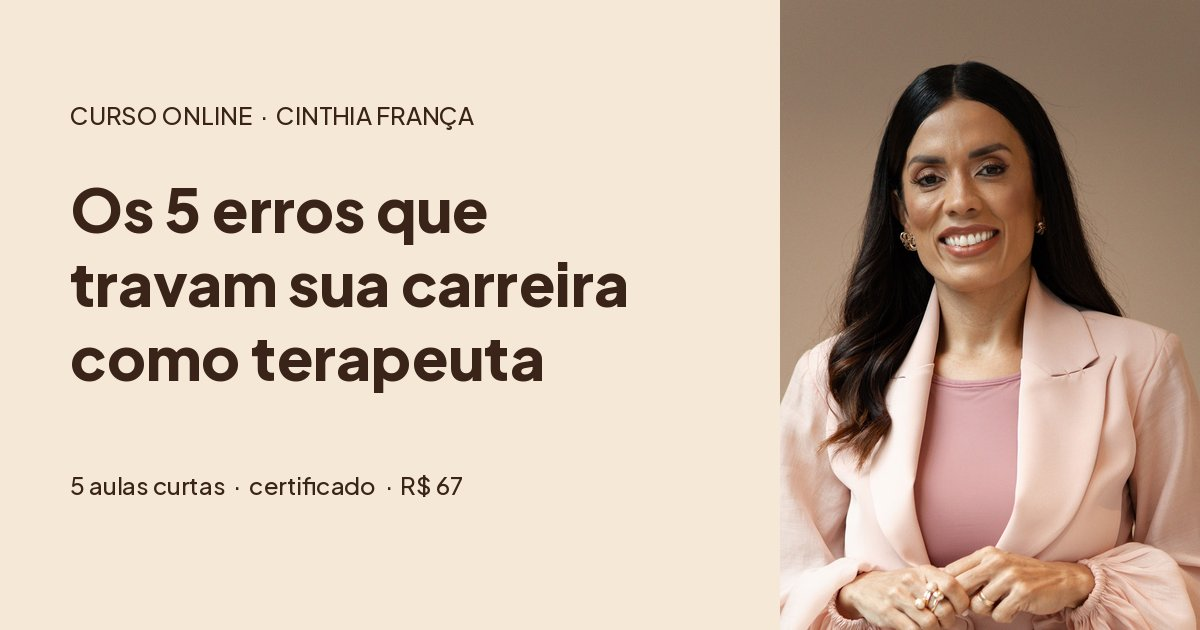
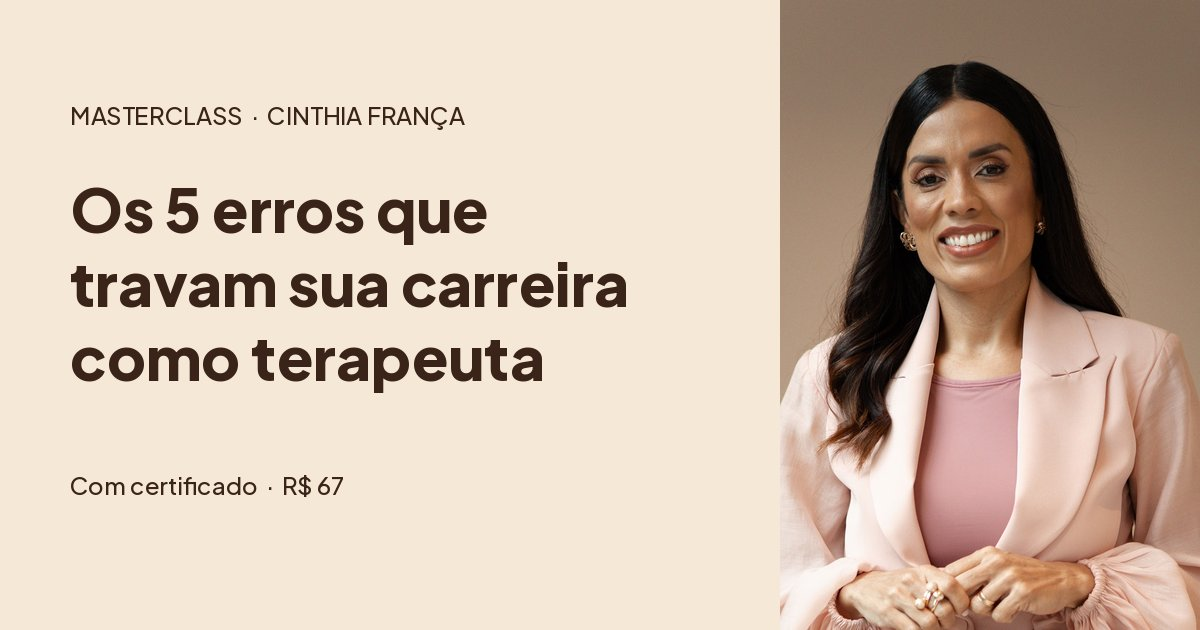
Reposiciona como masterclass: promessa de clareza, não de transformação
Claude-Session: https://claude.ai/code/session_011kGtmtPKbxxU8P9mcd28SW

Changed region(s): [[0.0617, 0.1508, 0.4008, 0.2111], [0.0617, 0.754, 0.4008, 0.7841]]

diff --git a/index.html b/index.html
@@ -3,11 +3,11 @@
 <head>
 <meta charset="utf-8">
 <meta name="viewport" content="width=device-width, initial-scale=1">
-<title>Os 5 Erros que Travam sua Carreira como Terapeuta | Cinthia França</title>
-<meta name="description" content="Saia da terapeuta competente que ninguém enxerga para a profissional reconhecida, valorizada e com uma carreira que cresce. Curso com Cinthia França, R$ 67.">
+<title>Masterclass: Os 5 Erros que Travam sua Carreira como Terapeuta | Cinthia França</title>
+<meta name="description" content="Masterclass com Cinthia França: entenda os erros que travam a carreira de terapeutas competentes e qual é o seu próximo passo. Com certificado.">
 <meta property="og:type" content="website">
-<meta property="og:title" content="Os 5 Erros que Travam sua Carreira como Terapeuta">
-<meta property="og:description" content="Curso com Cinthia França. 5 aulas e certificado. R$ 67.">
+<meta property="og:title" content="Masterclass: Os 5 Erros que Travam sua Carreira como Terapeuta">
+<meta property="og:description" content="Masterclass com Cinthia França. Com certificado. R$ 67.">
 <meta property="og:image" content="https://gbrielvascn.github.io/5-erros-terapeuta/img/og.jpg">
 <meta name="twitter:card" content="summary_large_image">
 <link rel="preload" href="fonts/dm-sans-latin.woff2" as="font" type="font/woff2" crossorigin>
@@ -230,13 +230,13 @@
   <div class="wrap">
     <div class="hero-copy">
       <img class="logo" src="img/logo.webp" alt="Cinthia França" width="300" height="194">
-      <span class="tag">Curso online para terapeutas</span>
-      <h1>Você já é <b>uma boa terapeuta.</b> <span class="acc">Agora construa a carreira que você merece.</span></h1>
-      <p class="sub">Em 5 aulas, eu te mostro <b>os erros que travam a carreira de terapeutas competentes</b> e o caminho para ser reconhecida e crescer sem viver exausta.</p>
+      <span class="tag">Masterclass para terapeutas</span>
+      <h1>Você já é <b>uma boa terapeuta.</b> <span class="acc">Descubra o que está travando a sua carreira.</span></h1>
+      <p class="sub">Numa masterclass curta, direto ao ponto, eu te mostro <b>os 5 erros que travam a carreira de terapeutas competentes</b> e qual é o próximo passo para sair deles.</p>
       <ul class="outs">
-        <li><svg viewBox="0 0 24 24" fill="none" stroke="currentColor" stroke-width="3" stroke-linecap="round" stroke-linejoin="round"><path d="M5 12l5 5 9-10"/></svg>Seja reconhecida pelo que você faz de melhor</li>
-        <li><svg viewBox="0 0 24 24" fill="none" stroke="currentColor" stroke-width="3" stroke-linecap="round" stroke-linejoin="round"><path d="M5 12l5 5 9-10"/></svg>Cresça sem precisar viver no limite</li>
-        <li><svg viewBox="0 0 24 24" fill="none" stroke="currentColor" stroke-width="3" stroke-linecap="round" stroke-linejoin="round"><path d="M5 12l5 5 9-10"/></svg>Descubra o próximo passo da sua carreira</li>
+        <li><svg viewBox="0 0 24 24" fill="none" stroke="currentColor" stroke-width="3" stroke-linecap="round" stroke-linejoin="round"><path d="M5 12l5 5 9-10"/></svg>Entenda por que seu trabalho não é reconhecido como deveria</li>
+        <li><svg viewBox="0 0 24 24" fill="none" stroke="currentColor" stroke-width="3" stroke-linecap="round" stroke-linejoin="round"><path d="M5 12l5 5 9-10"/></svg>Enxergue os erros que você comete sem perceber</li>
+        <li><svg viewBox="0 0 24 24" fill="none" stroke="currentColor" stroke-width="3" stroke-linecap="round" stroke-linejoin="round"><path d="M5 12l5 5 9-10"/></svg>Saiba qual é o próximo passo para o seu momento</li>
       </ul>
       <div class="cta-row">
         <a class="btn js-cta" href="https://pay.kirvano.com/73191838-db71-4db0-a20a-98476601e4a1">Quero assistir
@@ -253,8 +253,8 @@
   <div class="wrap">
     <div class="center">
       <span class="eyebrow" style="color:var(--accent)">A transformação</span>
-      <h2 class="h2" style="margin-top:12px">De <b>boa profissional</b> para <b>carreira de referência</b></h2>
-      <p class="tr-intro">Ser uma excelente profissional não significa construir uma excelente carreira. Este curso é a ponte entre as duas coisas.</p>
+      <h2 class="h2" style="margin-top:12px">Da carreira travada para <b>um caminho claro</b></h2>
+      <p class="tr-intro">Ser uma excelente profissional não significa construir uma excelente carreira. Nesta masterclass, eu mostro o que está no meio do caminho.</p>
     </div>
     <div class="ba">
       <div class="col before">
@@ -269,12 +269,12 @@
       </div>
       <div class="arrow"><span><svg viewBox="0 0 24 24" fill="none" stroke="currentColor" stroke-width="2.6" stroke-linecap="round" stroke-linejoin="round"><path d="M5 12h14M13 6l6 6-6 6"/></svg></span></div>
       <div class="col after">
-        <h3>Depois do curso</h3>
+        <h3>Depois da masterclass</h3>
         <ul>
           <li><svg viewBox="0 0 24 24" fill="none" stroke="currentColor" stroke-width="2.8" stroke-linecap="round" stroke-linejoin="round"><path d="M5 12l5 5 9-10"/></svg>Você entende o que está travando a sua carreira</li>
-          <li><svg viewBox="0 0 24 24" fill="none" stroke="currentColor" stroke-width="2.8" stroke-linecap="round" stroke-linejoin="round"><path d="M5 12l5 5 9-10"/></svg>Você sabe como fazer seu trabalho ser reconhecido</li>
-          <li><svg viewBox="0 0 24 24" fill="none" stroke="currentColor" stroke-width="2.8" stroke-linecap="round" stroke-linejoin="round"><path d="M5 12l5 5 9-10"/></svg>Você passa a criar oportunidades em vez de esperar por elas</li>
-          <li><svg viewBox="0 0 24 24" fill="none" stroke="currentColor" stroke-width="2.8" stroke-linecap="round" stroke-linejoin="round"><path d="M5 12l5 5 9-10"/></svg>Você constrói uma carreira que se sustenta, sem viver no limite</li>
+          <li><svg viewBox="0 0 24 24" fill="none" stroke="currentColor" stroke-width="2.8" stroke-linecap="round" stroke-linejoin="round"><path d="M5 12l5 5 9-10"/></svg>Você enxerga os erros que estava cometendo sem perceber</li>
+          <li><svg viewBox="0 0 24 24" fill="none" stroke="currentColor" stroke-width="2.8" stroke-linecap="round" stroke-linejoin="round"><path d="M5 12l5 5 9-10"/></svg>Você sabe por que seu trabalho não está sendo reconhecido</li>
+          <li><svg viewBox="0 0 24 24" fill="none" stroke="currentColor" stroke-width="2.8" stroke-linecap="round" stroke-linejoin="round"><path d="M5 12l5 5 9-10"/></svg>Você para de esperar e sabe o que fazer diferente</li>
           <li><svg viewBox="0 0 24 24" fill="none" stroke="currentColor" stroke-width="2.8" stroke-linecap="round" stroke-linejoin="round"><path d="M5 12l5 5 9-10"/></svg>Você sabe qual é o próximo movimento certo para o seu momento</li>
         </ul>
       </div>
@@ -310,7 +310,7 @@
     <div class="head">
       <span class="eyebrow">O que você vai aprender</span>
       <h2 class="h2" style="margin-top:12px">5 erros que ninguém te contou. <b>E como sair de cada um.</b></h2>
-      <p>Em <span class="pill">5 AULAS</span> você vai descobrir:</p>
+      <p>Na <span class="pill">MASTERCLASS</span> você vai descobrir:</p>
     </div>
     <div class="tlist">
       <div class="t"><span class="n">ERRO 01</span><svg class="lock" viewBox="0 0 24 24" fill="none" stroke="currentColor" stroke-width="1.8" stroke-linecap="round" stroke-linejoin="round"><rect x="5" y="11" width="14" height="10" rx="2"/><path d="M8 11V8a4 4 0 0 1 8 0v3"/></svg><p>O erro que faz terapeutas excelentes passarem despercebidas <span>e por que ele não tem nada a ver com competência.</span></p></div>
@@ -342,13 +342,13 @@
 
 <section class="offer" id="oferta">
   <div class="wrap">
-    <h2 class="h2">Comece hoje a construir <b>a carreira que você merece</b></h2>
+    <h2 class="h2">Descubra hoje o que está <b>travando a sua carreira</b></h2>
     <div class="pbox">
       <div class="pl">
         <h3>O que você recebe</h3>
         <ul>
-          <li><span class="ck"><svg viewBox="0 0 24 24" fill="none" stroke="currentColor" stroke-width="3.2" stroke-linecap="round" stroke-linejoin="round"><path d="M5 12l5 5 9-10"/></svg></span><span><b>5 aulas</b> para entender os erros que travam a sua carreira e como sair de cada um</span></li>
-          <li><span class="ck"><svg viewBox="0 0 24 24" fill="none" stroke="currentColor" stroke-width="3.2" stroke-linecap="round" stroke-linejoin="round"><path d="M5 12l5 5 9-10"/></svg></span><span><b>Assista no celular ou no computador</b>, no seu ritmo</span></li>
+          <li><span class="ck"><svg viewBox="0 0 24 24" fill="none" stroke="currentColor" stroke-width="3.2" stroke-linecap="round" stroke-linejoin="round"><path d="M5 12l5 5 9-10"/></svg></span><span><b>Masterclass em 5 partes</b> para entender os erros que travam a sua carreira e como sair de cada um</span></li>
+          <li><span class="ck"><svg viewBox="0 0 24 24" fill="none" stroke="currentColor" stroke-width="3.2" stroke-linecap="round" stroke-linejoin="round"><path d="M5 12l5 5 9-10"/></svg></span><span><b>Assista no celular ou no computador</b>, quando quiser</span></li>
           <li><span class="ck"><svg viewBox="0 0 24 24" fill="none" stroke="currentColor" stroke-width="3.2" stroke-linecap="round" stroke-linejoin="round"><path d="M5 12l5 5 9-10"/></svg></span><span><b>Certificado</b> de conclusão</span></li>
         </ul>
       </div>
@@ -363,7 +363,7 @@
     </div>
     <div class="guar">
       <div class="seal"><div><b>7</b><span>DIAS</span></div></div>
-      <div><h3>Garantia de 7 dias</h3><p>Assista às aulas com tranquilidade. Se sentir que o curso não é para você, é só pedir o reembolso dentro de 7 dias e você recebe todo o valor de volta.</p></div>
+      <div><h3>Garantia de 7 dias</h3><p>Assista à masterclass com tranquilidade. Se sentir que ela não é para você, é só pedir o reembolso dentro de 7 dias e você recebe todo o valor de volta.</p></div>
     </div>
   </div>
 </section>
@@ -372,9 +372,9 @@
   <div class="wrap">
     <h2 class="h2">Dúvidas <b class="acc">frequentes</b></h2>
     <div class="faq-list">
-      <details><summary><span class="n">01</span><span class="q2">Para quem é este curso?</span><svg class="ch" viewBox="0 0 24 24" fill="none" stroke="currentColor" stroke-width="2" stroke-linecap="round"><path d="M6 9l6 6 6-6"/></svg></summary><p>Para terapeutas que sentem que a carreira está aquém do que entregam: quem está começando, quem atende em consultório ou em clínica e quem pensa em um dia ter a própria clínica.</p></details>
-      <details><summary><span class="n">02</span><span class="q2">Como recebo o acesso?</span><svg class="ch" viewBox="0 0 24 24" fill="none" stroke="currentColor" stroke-width="2" stroke-linecap="round"><path d="M6 9l6 6 6-6"/></svg></summary><p>Depois da confirmação do pagamento, você recebe por e-mail o acesso à área de membros, onde estão as 5 aulas.</p></details>
-      <details><summary><span class="n">03</span><span class="q2">Tem certificado?</span><svg class="ch" viewBox="0 0 24 24" fill="none" stroke="currentColor" stroke-width="2" stroke-linecap="round"><path d="M6 9l6 6 6-6"/></svg></summary><p>Sim. Ao concluir as aulas, você emite o certificado na própria área de membros.</p></details>
+      <details><summary><span class="n">01</span><span class="q2">Para quem é esta masterclass?</span><svg class="ch" viewBox="0 0 24 24" fill="none" stroke="currentColor" stroke-width="2" stroke-linecap="round"><path d="M6 9l6 6 6-6"/></svg></summary><p>Para terapeutas que sentem que a carreira está aquém do que entregam: quem está começando, quem atende em consultório ou em clínica e quem pensa em um dia ter a própria clínica.</p></details>
+      <details><summary><span class="n">02</span><span class="q2">Como recebo o acesso?</span><svg class="ch" viewBox="0 0 24 24" fill="none" stroke="currentColor" stroke-width="2" stroke-linecap="round"><path d="M6 9l6 6 6-6"/></svg></summary><p>Depois da confirmação do pagamento, você recebe por e-mail o acesso à área de membros, onde está a masterclass.</p></details>
+      <details><summary><span class="n">03</span><span class="q2">Tem certificado?</span><svg class="ch" viewBox="0 0 24 24" fill="none" stroke="currentColor" stroke-width="2" stroke-linecap="round"><path d="M6 9l6 6 6-6"/></svg></summary><p>Sim. Ao concluir a masterclass, você emite o certificado na própria área de membros.</p></details>
       <details><summary><span class="n">04</span><span class="q2">Quais são as formas de pagamento?</span><svg class="ch" viewBox="0 0 24 24" fill="none" stroke="currentColor" stroke-width="2" stroke-linecap="round"><path d="M6 9l6 6 6-6"/></svg></summary><p>Cartão de crédito, Pix ou boleto, em pagamento único de R$ 67.</p></details>
       <details><summary><span class="n">05</span><span class="q2">E se eu não gostar?</span><svg class="ch" viewBox="0 0 24 24" fill="none" stroke="currentColor" stroke-width="2" stroke-linecap="round"><path d="M6 9l6 6 6-6"/></svg></summary><p>Você tem 7 dias de garantia. Se não fizer sentido para você, é só pedir o reembolso dentro desse prazo.</p></details>
     </div>
@@ -399,7 +399,7 @@
   </div>
 </footer>
 
-<div class="sticky" id="sticky"><a class="btn js-cta" href="https://pay.kirvano.com/73191838-db71-4db0-a20a-98476601e4a1">Quero assistir agora</a></div>
+<div class="sticky" id="sticky"><a class="btn js-cta" href="https://pay.kirvano.com/73191838-db71-4db0-a20a-98476601e4a1">Quero assistir à masterclass</a></div>
 
 <script>
   document.getElementById('y').textContent = new Date().getFullYear();
